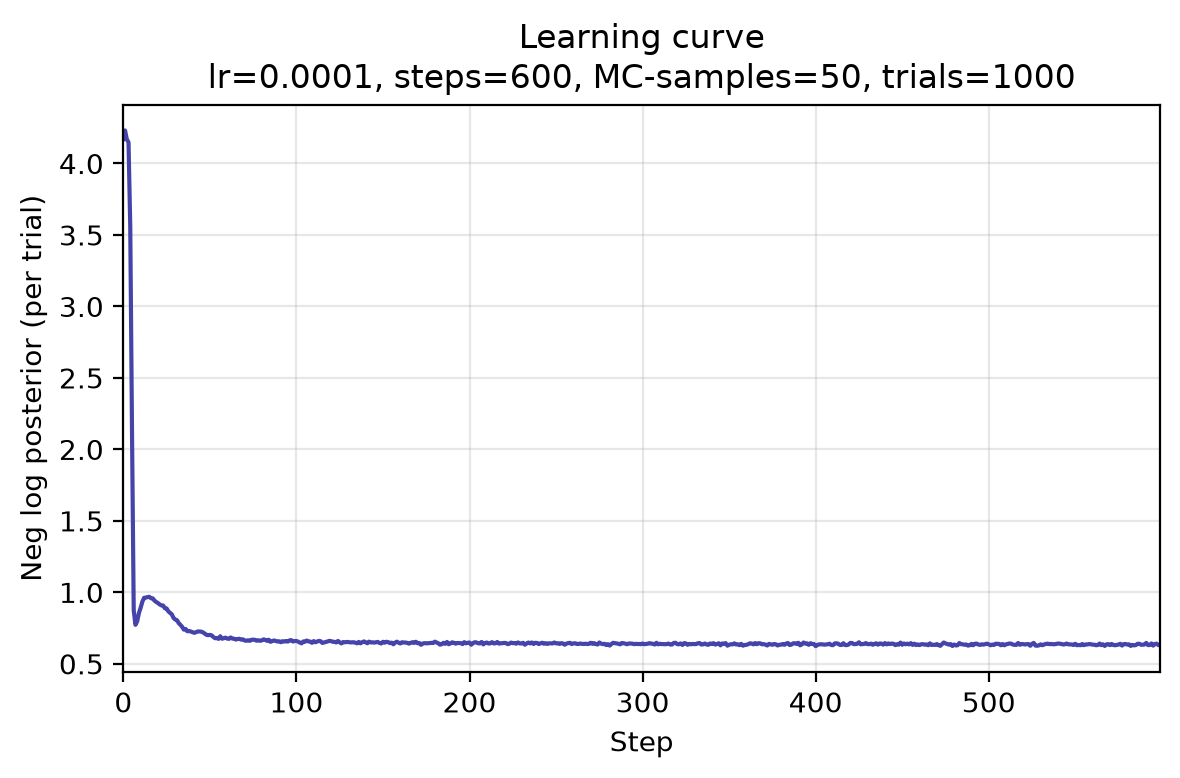
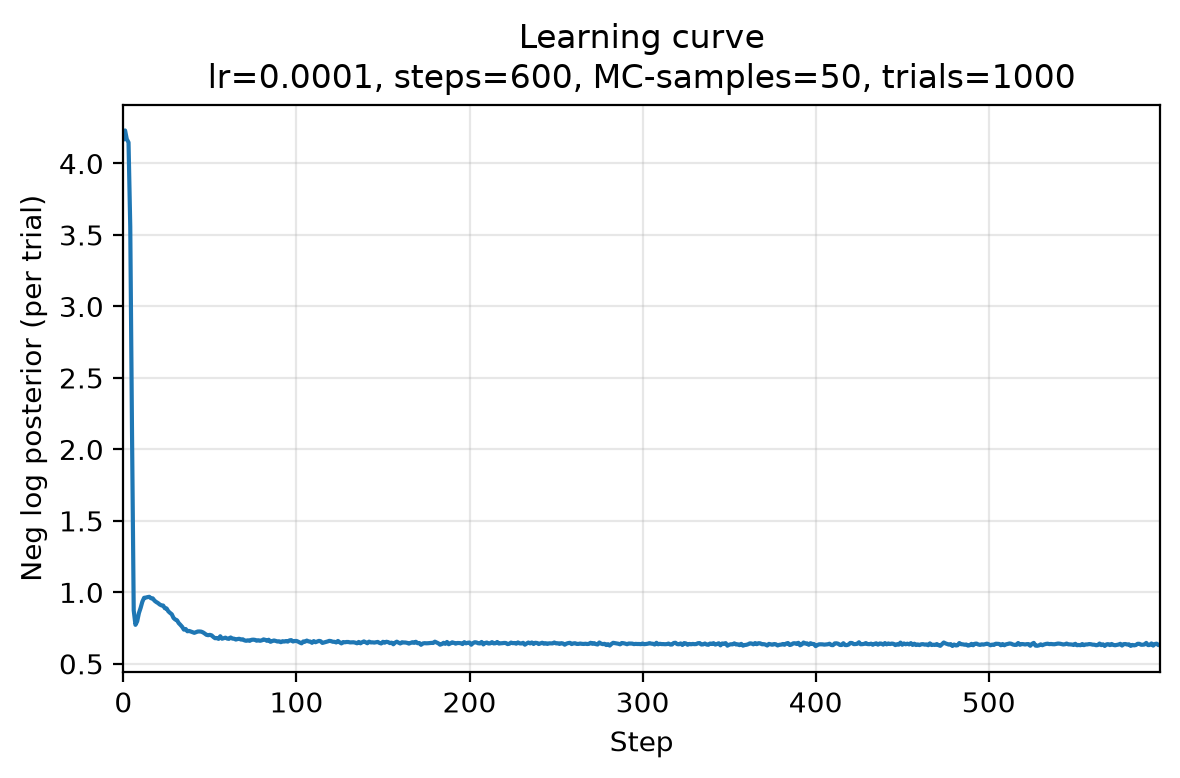
updated colors

Changed region(s): [[0.1525, 0.8021, 0.9763, 0.8329], [0.0915, 0.1851, 0.1525, 0.8021]]

diff --git a/docs/examples/wppm/quick_start.py b/docs/examples/wppm/quick_start.py
@@ -245,7 +245,7 @@ plot_ellipses(
     [covs_truth, covs_prior, covs_map],
     ax=ax,
     scale=1.0,
-    colors=["k", "b", "r"],
+    colors=["k", "C0", "C3"],
     linestyles=["-", "--", "-"],
     linewidths=[2.0, 1.5, 2.0],
     labels=["Ground Truth", "Prior Sample (init)", "Fitted (MAP)"],
@@ -285,7 +285,7 @@ steps_hist, loss_hist = inference.get_history()
 
 if steps_hist and loss_hist:
     fig2, ax2 = plt.subplots(figsize=(6, 4))
-    ax2.plot(steps_hist, loss_hist, color="#4444aa")
+    ax2.plot(steps_hist, loss_hist, color="C0")
     ax2.set_xlim(steps_hist[0], steps_hist[-1])
     ax2.set_title(
         f"Learning curve\n"
